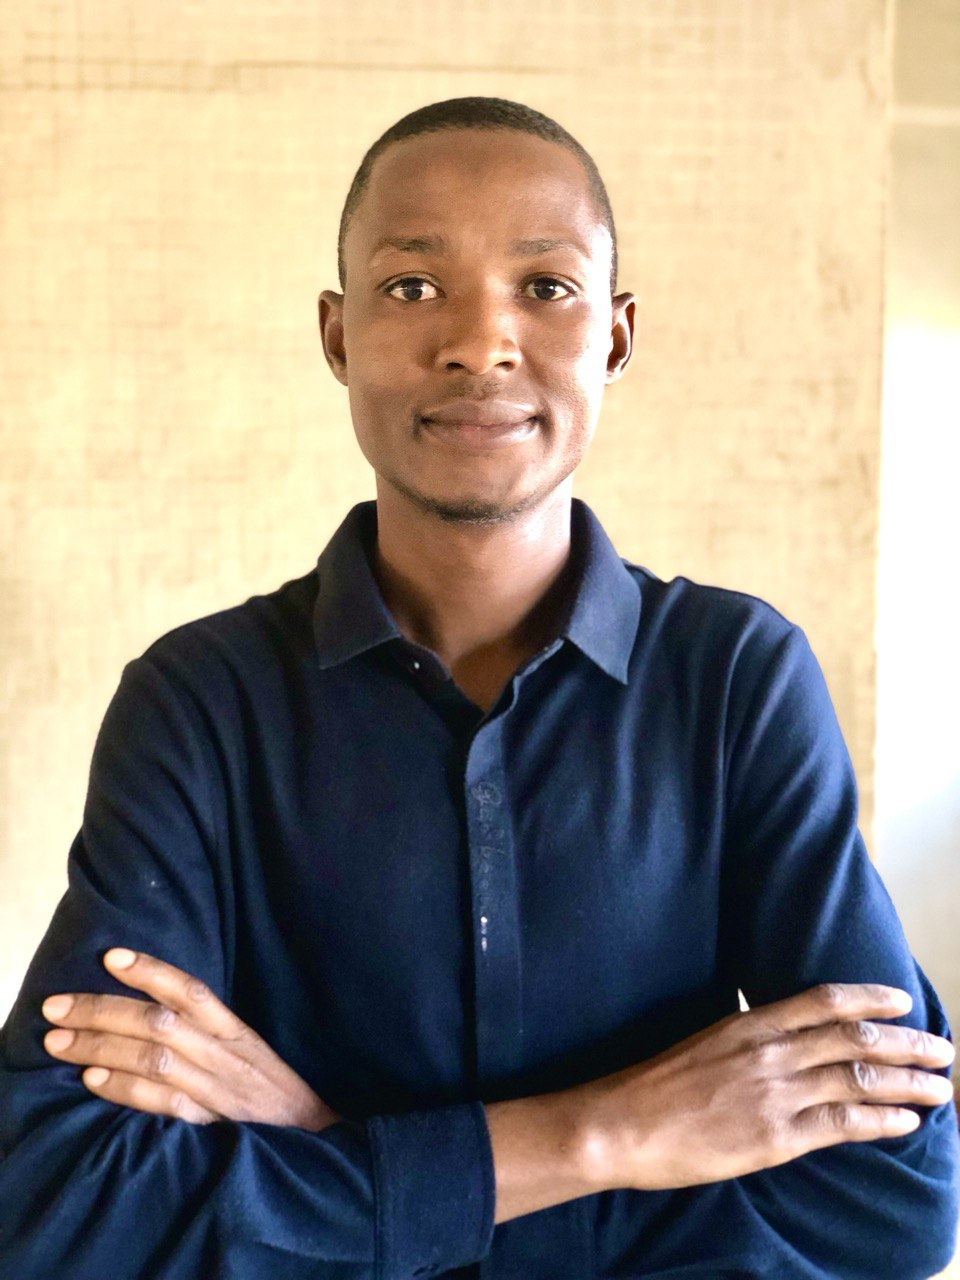
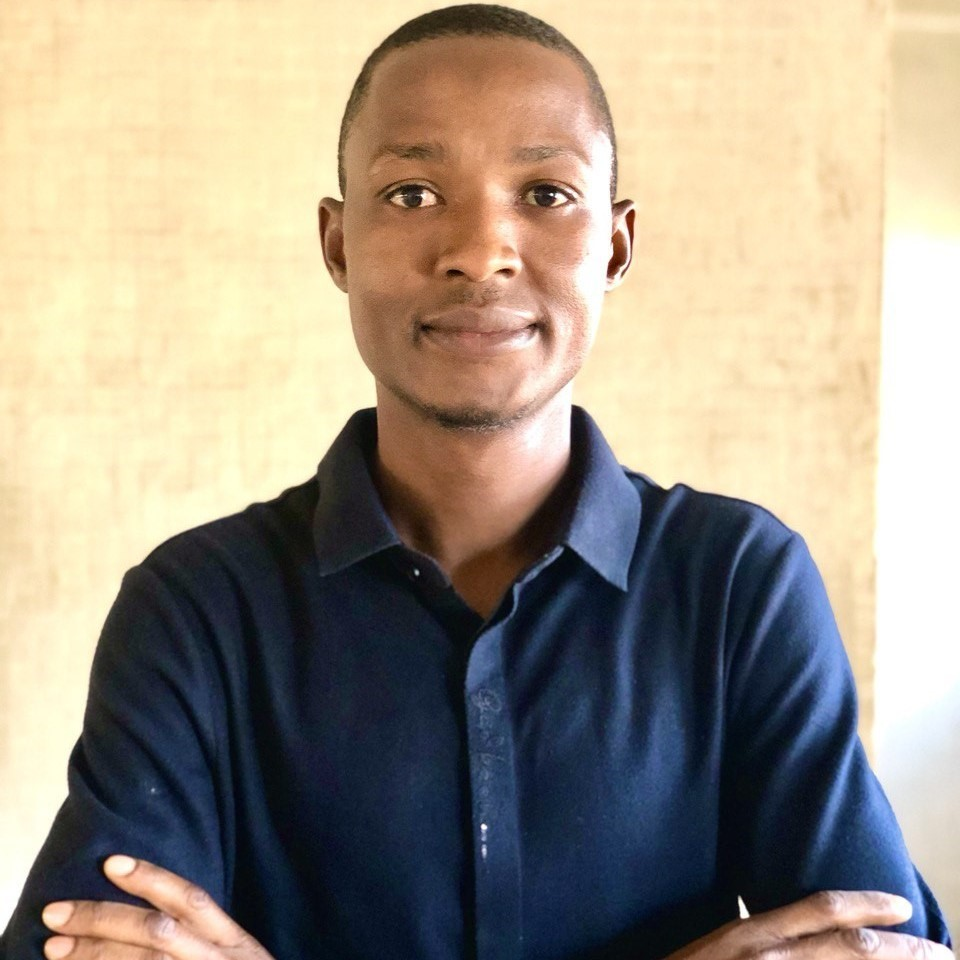
save

diff --git a/src/pages/about-us/about-us.css b/src/pages/about-us/about-us.css
@@ -1,13 +1,19 @@
+.about-container{
+    display: flex;
+}
+.years::after{
+    content: '+';
+}
 .team-card{
     width: 100%;
     margin-bottom: 10px;
     /* padding:10px; */
     border-radius: 10px;
-    box-shadow: 1px 1px 5px #dedede;
+    /* box-shadow: 1px 1px 5px #dedede; */
     transition: .3s;
 }
 .team-card:hover .social{
-    bottom: 0px;
+    bottom: 30px;
     display: flex;
     transform: translateY(10%);
     opacity: 1;
@@ -16,8 +22,9 @@
 }
 .cards img {
     width: 100%;
-    height: 300px;
-    border-radius: 10px 10px 0 0;
+    /* height: 270px; */
+    border-radius: 10px;
+    object-fit: cover;
 }
 .connect{
     position: relative;
@@ -32,6 +39,7 @@
     opacity: 0;
     color: #dedede;
     justify-content: center;
+    z-index: 3;
 }
 .social li{
     background-color: var(--main-color);
@@ -42,6 +50,8 @@
     display: flex;
     align-items: center;
     justify-content: center;
+    z-index: 3;
+    position: relative;
 }
 .social ul {
     display: flex;
@@ -50,8 +60,15 @@
     width: 70%;
 }
 .info{
-    padding: 5px;
-
+    padding: 25px;
+    width: 80%;
+    margin: -50px auto 0;
+    border: #dedede50 1px solid;
+    border-radius: 10px;
+    box-shadow: 1px 1px 5px #dedede;
+    background-color: #dedede;
+    z-index: 2;
+    position: relative;
 }
 .role{
     margin-bottom: 2px;
@@ -60,6 +77,11 @@
     text-align: center;
 
 }
+@media( width<992px){
+    .about-container{
+        display: grid;
+    }
+}
 
 @media (width < 546px){
     .team-card{
@@ -67,11 +89,11 @@
         height: 415px;
         margin-inline: auto;
     }
-   .team-card img{
+   /* .team-card img{
     height: 350px;
-   }
+   } */
     .social{
-        bottom: 5px;
+        bottom: 30px;
         opacity: 1;
     }
     .social ul{

diff --git a/src/pages/about-us/TeamContainer.jsx b/src/pages/about-us/TeamContainer.jsx
@@ -1,16 +1,16 @@
 import React from "react";
-import murtala from "../../assets/team/murtala.jpg";
+import murtala from "../../assets/team/murtala1.jpg";
 import mary from "../../assets/team/marry.jpg";
-import isah from "../../assets/team/isah.jpg";
-import fahad from "../../assets/team/fahad.jpg";
-import ishaq from "../../assets/team/ishaq1.jpg";
-import mustapha from "../../assets/team/musty.jpg";
+import isah from "../../assets/team/ishah3.jpg";
+import fahad from "../../assets/team/fahad3.jpg";
+import ishaq from "../../assets/team/ishaqtg.jpg";
+import mustapha from "../../assets/team/mustyy.jpg";
 // import  from '../../assets/team/.jpg'
-import dadi from "../../assets/team/photo_2024-01-22_16-51-49.jpg";
+import dadi from "../../assets/team/daddy2.jpg";
 // import nazif from '../../assets/team/musty.jpg'
 // import bashir from '../../assets/team/musty.jpg'
 // import mide from '../../assets/team/musty.jpg'
-import sadiq from "../../assets/team/sadiq.jpg";
+import sadiq from "../../assets/team/mide4.jpg";
 import TeamCard from "./TeamCard";
 import Scroll from "../../Components/scroll/Scroll";
 
@@ -18,7 +18,7 @@ export default function TeamContainer() {
   const nam = "Mustapha";
   const role = "Senior Developer";
   return (
-    <div className="container-fluid mt-5 pt-5">
+    <div className="container-fluid mt-5 pt-5 mb-5 bg-light">
       {/* <h2 className='s-heading'>Our Creative Team</h2> */}
       <Scroll title="MEET OUR TEAM" page="about" />
       <div className="container">

diff --git a/src/pages/home/home.jsx b/src/pages/home/home.jsx
@@ -6,13 +6,9 @@ import What from "./What -we-do/what";
 import GetInTouch from "./brief-contact-us/GetInTouch";
 import Designed from "./Design/Designed";
 import HomecardContainer from './services-card/HomecardContainer.jsx'
-
 import Hero from "./hero/Hero";
-import HomecardContainer from "./services-card/HomecardContainer";
 
 export default function Home() {
-  const nam = "Mustapha";
-  const role = "Senior Developer";
   return (
     <>
       <Hero />

diff --git a/src/pages/about-us/AboutUs.jsx b/src/pages/about-us/AboutUs.jsx
@@ -26,7 +26,7 @@ export default function AboutUs() {
           </h2>
           <div data-aos="fade-up" data-aos-once="true">
             <h1 className="spa">
-              We have be Innovation for <span>{years}</span>
+              We have be Innovating for <span className="years">{years}</span>
             </h1>
             <p>
               Brainstorm IT Solutions is a software solution company with a wide

diff --git a/src/pages/home/home.css b/src/pages/home/home.css
@@ -39,9 +39,9 @@
 .subheading {
   display: inline-block;
   padding: 5px 20px;
-  color: #FBB244;
+  color: var(--red-color);
   text-transform: uppercase;
-  background-color: rgba(251, 178, 68, 0.2);
+  background-color: #ff3b4542;
   border-radius: 30px;
   font-size: 10px;
   text-transform: uppercase;

diff --git a/src/Components/scroll/scroll.css b/src/Components/scroll/scroll.css
@@ -23,7 +23,7 @@
 .scroll-text span {
     color: hsla(0, 100%, 99%, 0.4);
     background-image: linear-gradient(45deg, black, black);
-    background-size: 0% 100%;
+    background-size: 100% 100%;
     background-repeat: no-repeat;
     -webkit-background-clip: text;
     background-clip: text;
